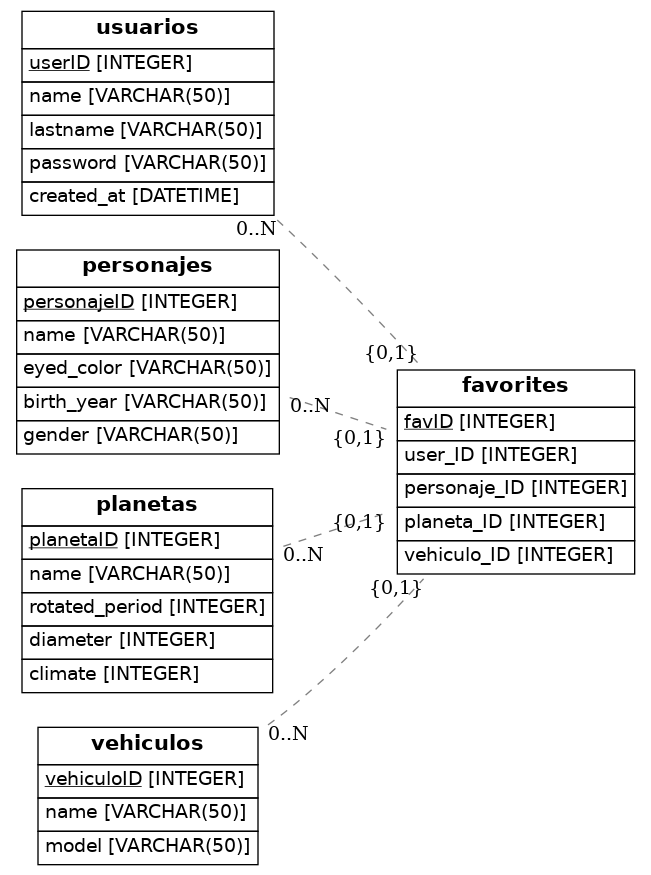
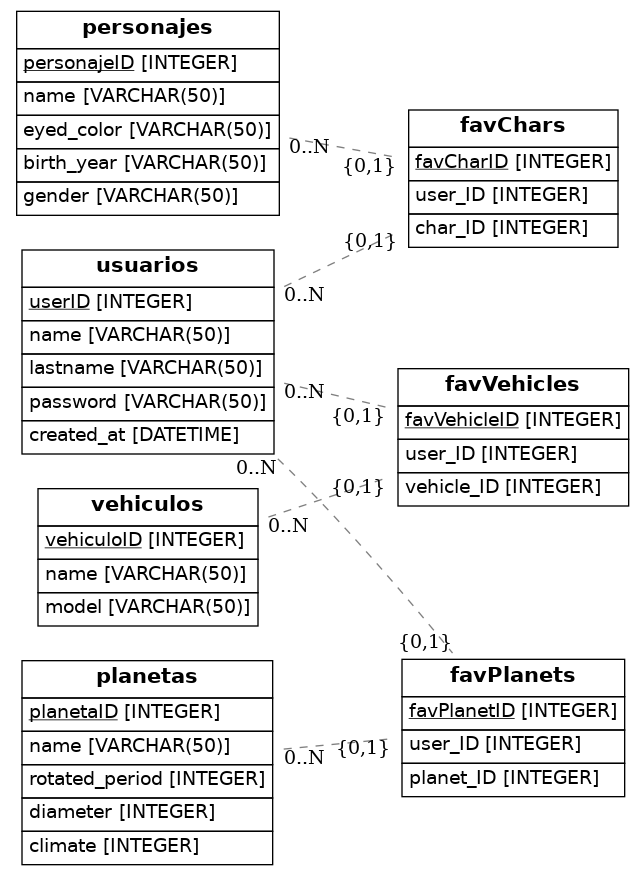
Corrección del diagrama con 3 tablas  de favoritos

diff --git a/src/models.py b/src/models.py
@@ -9,56 +9,66 @@ from eralchemy import render_er
 
 Base = declarative_base()
 
-class User(Base):
+class user(Base):
     __tablename__ = "usuarios"
     userID = Column (Integer, primary_key = True)
     name = Column (String (50), nullable = False)
     lastname = Column (String(50), nullable = False)
     password = Column (String(50), nullable = False)
     created_at = Column (DateTime(), default = datetime.now())
-    favorite_relation = relationship("favorites", back_populates="usuarios")
 
+# Personajes-----------------------------------
 
-class Favorite(Base):
-    __tablename__="favorites"
-    favID= Column (Integer, primary_key = True)
-    user_ID = Column (Integer, ForeignKey("usuarios.userID"))
-    user_relation = relationship("usuarios", back_populates="favorites")
-    personaje_relation = relationship("personajes")
-    planet_relation = relationship("planetas")
-    vehicle_relation = relationship("vehiculos")
-    personaje_ID = Column (Integer, ForeignKey ("personajes.personajeID"))
-    planeta_ID = Column (Integer, ForeignKey("planetas.planetaID"))
-    vehiculo_ID = Column (Integer, ForeignKey("vehiculos.vehiculoID"))
-    
-
-class Personaje(Base):
+class personaje(Base):
     __tablename__="personajes"
     personajeID = Column (Integer, primary_key = True)
     name = Column (String(50), nullable = False, unique = True)
     eyed_color = Column(String(50), nullable = False)
     birth_year = Column(String(50), nullable = False)
     gender = Column(String(50), nullable = False)
-    favorite_relation = relationship("favorites")
 
+class favCharacter(Base):
+    __tablename__ = "favChars"
+    favCharID= Column (Integer, primary_key = True)
+    user_ID = Column (Integer, ForeignKey("usuarios.userID"))
+    char_ID = Column (Integer, ForeignKey ("personajes.personajeID"))
+    personaje_relation = relationship("personajes")
+    user_relation = relationship("usuarios", back_populates="favChars")
 
-class Planeta(Base):
-    __tablename__="planetas"
+# Vehículos------------------------------------
+
+class vehiculo(Base):
+    __tablename__= "vehiculos"
+    vehiculoID = Column (Integer, primary_key = True)
+    name = Column(String(50), nullable = False, unique = True)
+    model = Column(String(50), nullable = False)
+
+class favVehicle(Base):
+    __tablename__ = "favVehicles"
+    favVehicleID= Column (Integer, primary_key = True)
+    user_ID = Column (Integer, ForeignKey("usuarios.userID"))
+    vehicle_ID = Column (Integer, ForeignKey ("vehiculos.vehiculoID"))
+    vehicle_relation = relationship("vehiculos")
+    user_relation = relationship("usuarios", back_populates="favVehicles")
+
+# Planetas------------------------------------
+
+class planeta(Base):
+    __tablename__= "planetas"
     planetaID = Column (Integer, primary_key = True)
     name = Column(String(50), nullable = False, unique = True)
     rotated_period = Column(Integer)
     diameter = Column(Integer)
     climate = Column(Integer)
-    favorite_relation = relationship("favorites")
+
+class favPlanet(Base):
+    __tablename__ = "favPlanets"
+    favPlanetID= Column (Integer, primary_key = True)
+    user_ID = Column (Integer, ForeignKey("usuarios.userID"))
+    planet_ID = Column (Integer, ForeignKey ("planetas.planetaID"))
+    planet_relation = relationship("planetas")
+    user_relation = relationship("usuarios", back_populates="favPlanets")
 
 
-class Vehiculo(Base):
-    __tablename__= "vehiculos"
-    vehiculoID = Column (Integer, primary_key = True)
-    name = Column(String(50), nullable = False, unique = True)
-    model = Column(String(50), nullable = False)
-    favorite_relation = relationship("favorites")
-
-    
 ## Draw from SQLAlchemy base
 render_er(Base, 'diagram.png')
